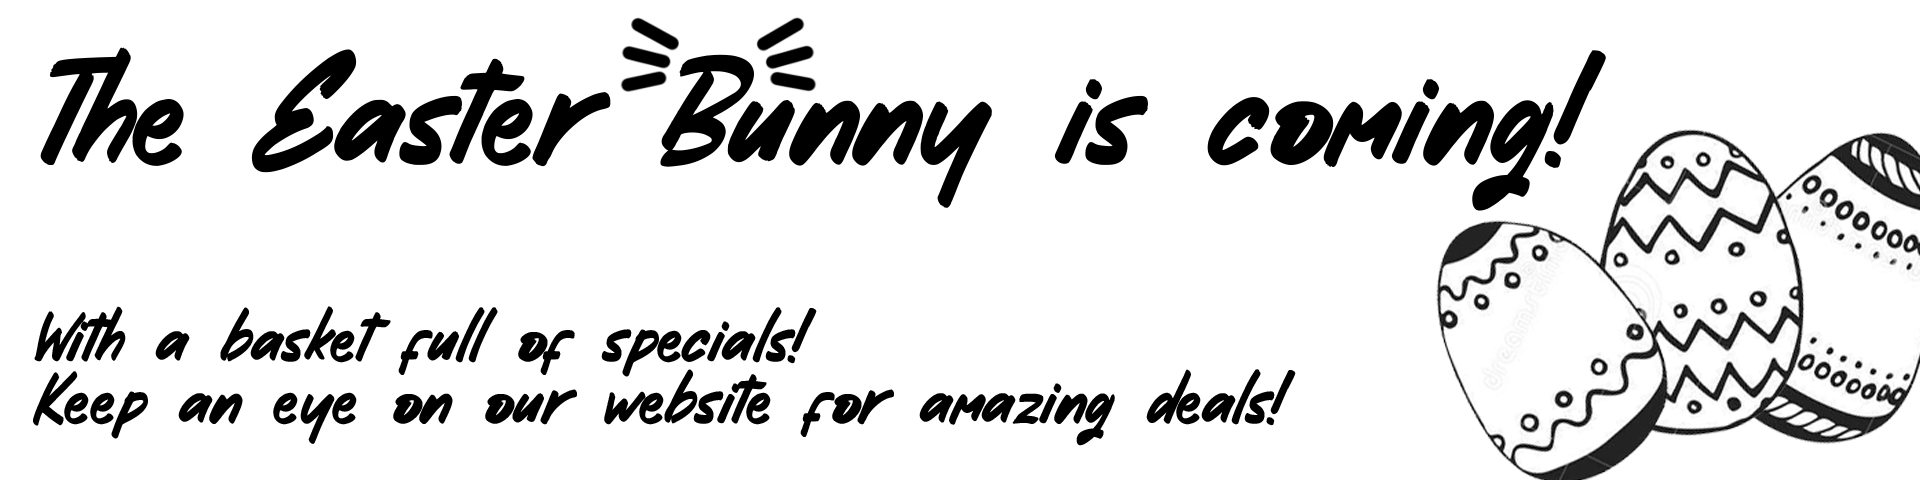
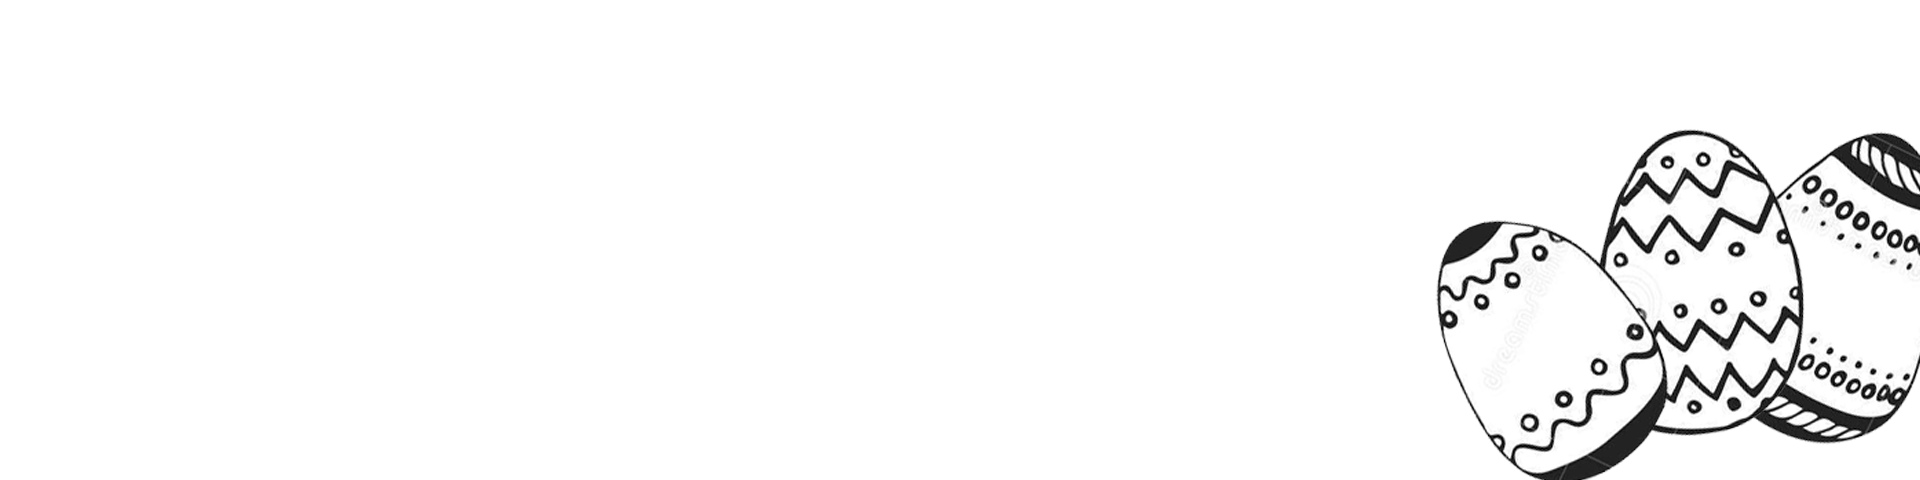
complately changed everything. Twice.

diff --git a/lib/constants.dart b/lib/constants.dart
@@ -47,8 +47,11 @@ const List<BoxShadow> boxShadow = [
       color: Colors.black45)
 ];
 
-final TextStyle mainTextStyle = GoogleFonts.anton();
+final TextStyle mainTextStyle = GoogleFonts.anton(color: textColor);
 
-final TextStyle secondaryTextStyle = GoogleFonts.londrinaSolid();
+final TextStyle secondaryTextStyle =
+    GoogleFonts.londrinaSolid(color: textColor);
 
-final TextStyle plainTextStyle = GoogleFonts.oswald();
+final TextStyle plainTextStyle = GoogleFonts.oswald(color: textColor);
+
+const Color textColor = Color.fromARGB(255, 255, 255, 246);

diff --git a/lib/main.dart b/lib/main.dart
@@ -11,9 +11,12 @@ class MyApp extends StatelessWidget {
   // This widget is the root of your application.
   @override
   Widget build(BuildContext context) {
-    return const MaterialApp(
+    return MaterialApp(
       debugShowCheckedModeBanner: false,
-      home: LandingPage(),
+      home: Container(
+          decoration: const BoxDecoration(
+              image: DecorationImage(image: AssetImage("Background.png"))),
+          child: const LandingPage()),
     );
   }
 }

diff --git a/lib/landing_page.dart b/lib/landing_page.dart
@@ -9,7 +9,7 @@ class LandingPage extends StatelessWidget {
   @override
   Widget build(BuildContext context) {
     return Scaffold(
-      backgroundColor: const Color.fromARGB(255, 247, 246, 243),
+      backgroundColor: Colors.transparent,
       body: SingleChildScrollView(
         child: Column(
           children: [
